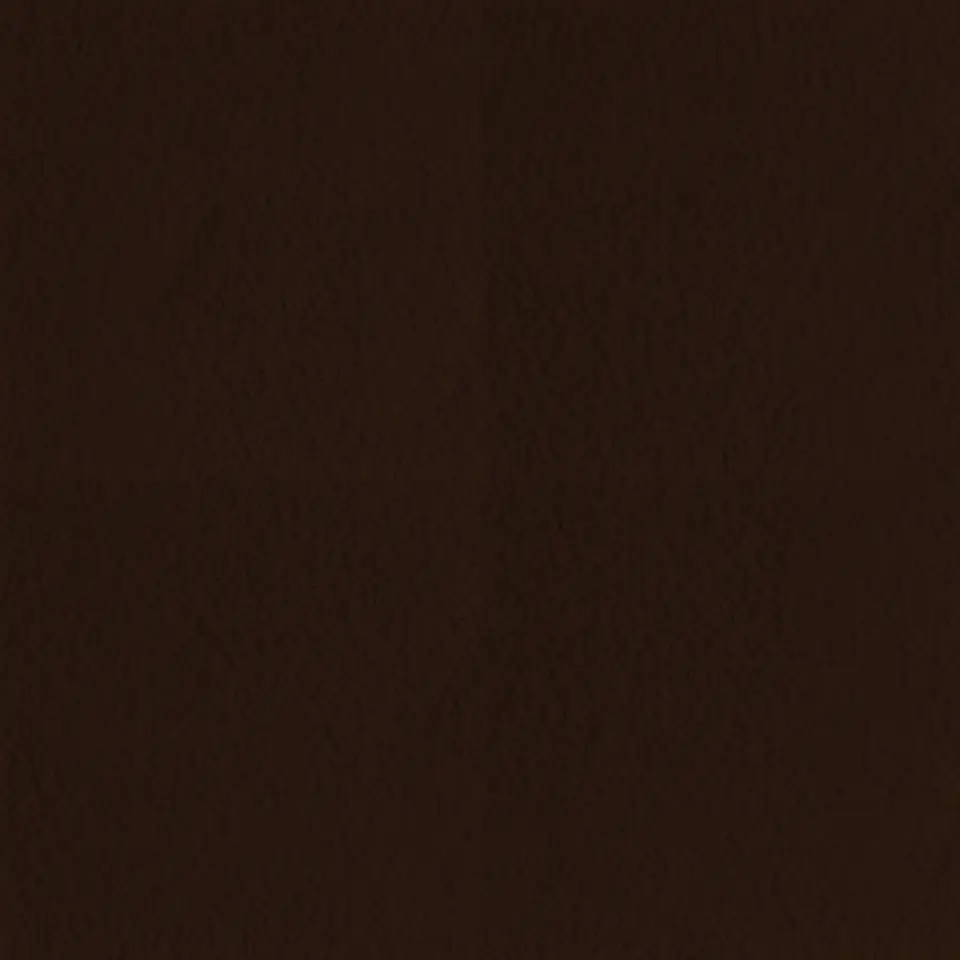
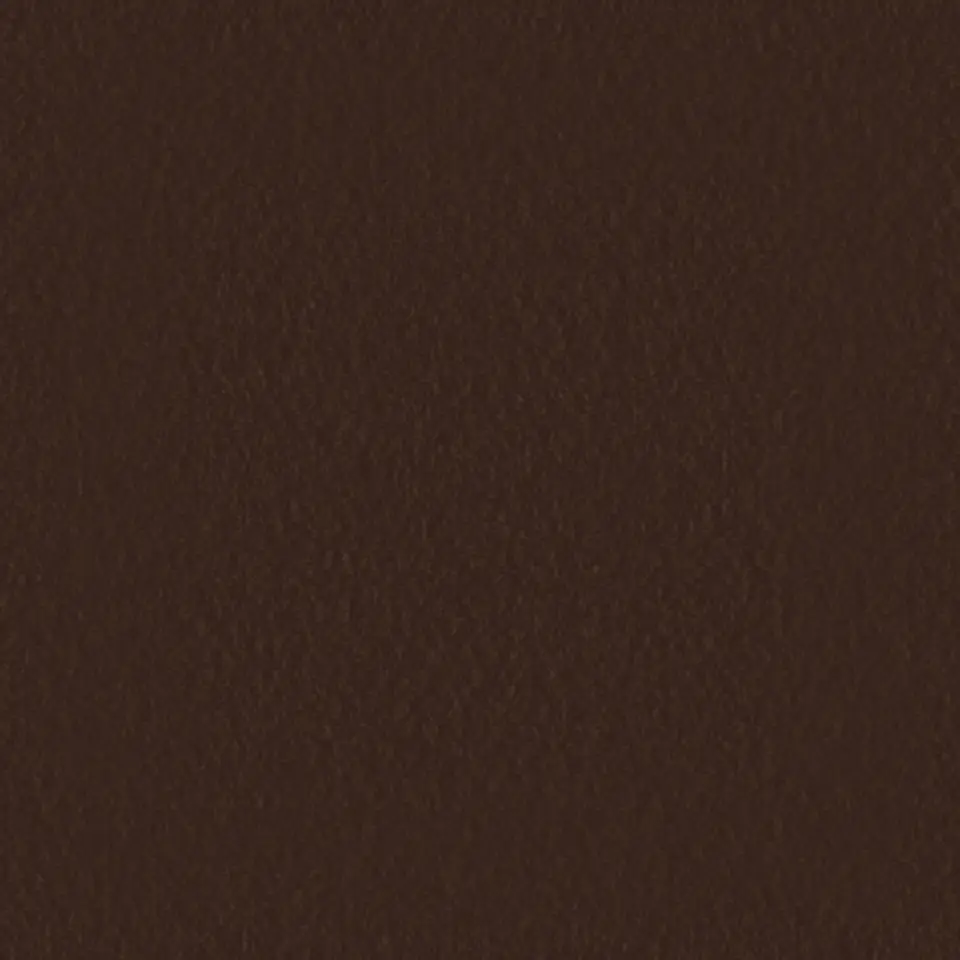
fix: cleaner paper, fine grain and fibre only (no stain-like wrinkles or fold streaks), cream matched

diff --git a/src/lib/paper.ts b/src/lib/paper.ts
@@ -10,18 +10,19 @@ export type PaperParams = {
 export type PaperColours = { colorPaper: string; colorBack: string; colorShadow: string }
 export type PaperTone = "light" | "lantern" | "bright"
 
-/** The lab's "Paper" style (lab/frame.tsx) as the start, folds down to 0.1 and no crumples (the diagonal creases),
- *  so nothing strong crosses behind the names (18f) */
+/** The paper (18f, second pass): fine grain and fibre only. The wrinkles and folds of the first pass read as stains
+ *  and streaks once tiled across a card, so they're gone; nothing big repeats, so the tile never shows. */
 export const CHOSEN: PaperParams = {
-  roughness: 0.35, roughnessSize: 0.5, fiber: 0.35, fiberSize: 0.5, folds: 0.1, foldSizeX: 1, foldSizeY: 1,
-  wrinkles: 0.35, wrinkleSize: 0.65, crumples: 0, drops: 0.1, distortion: 0.3, blending: 1, angle: 300, seed: 4, scale: 0.9,
+  roughness: 0.4, roughnessSize: 0.5, fiber: 0.45, fiberSize: 0.5, folds: 0, foldSizeX: 1, foldSizeY: 1,
+  wrinkles: 0, wrinkleSize: 0.65, crumples: 0, drops: 0.05, distortion: 0.3, blending: 1, angle: 300, seed: 4, scale: 0.9,
 }
 
-/** The paper colours: cream, a cream a step darker and a warm beige by day; walnut, a step darker and a deep brown
- *  in Lantern; the fortune slip's bright paper in both. */
+/** The paper colours: by day a cream a touch lighter than the letter's (the grain darkens it back to the cream),
+ *  a step darker and a soft beige; in Lantern a warm walnut, a step darker, and a lighter brown for the grain, so it
+ *  shows as texture on dark paper instead of disappearing or reading as scratches; the slip's bright paper in both. */
 export const COLOURS: Record<PaperTone, PaperColours> = {
-  light: { colorPaper: "#f3e7d3", colorBack: "#eadcc3", colorShadow: "#c4ab85" },
-  lantern: { colorPaper: "#2e1b12", colorBack: "#24150d", colorShadow: "#120905" },
+  light: { colorPaper: "#f7eddc", colorBack: "#f1e5cf", colorShadow: "#d2bd9b" },
+  lantern: { colorPaper: "#32201a", colorBack: "#2a1a12", colorShadow: "#5a4232" },
   bright: { colorPaper: "#fffdf8", colorBack: "#f6efe2", colorShadow: "#cdbb9b" },
 }
 
@@ -31,10 +32,10 @@ export const forTone = (p: PaperParams, tone: PaperTone): PaperParams =>
 
 /** The four for the lab, side by side */
 export const PRESETS: { id: string; label: string; params: PaperParams }[] = [
-  { id: "subtle", label: "Very subtle", params: { ...CHOSEN, roughness: 0.22, fiber: 0.25, folds: 0.03, wrinkles: 0.18, drops: 0.05 } },
+  { id: "subtle", label: "Very subtle", params: { ...CHOSEN, roughness: 0.25, fiber: 0.28, drops: 0 } },
   { id: "chosen", label: "Chosen", params: CHOSEN },
-  { id: "fibre", label: "More fibre", params: { ...CHOSEN, fiber: 0.7, fiberSize: 0.6 } },
-  { id: "nofolds", label: "No folds at all", params: { ...CHOSEN, folds: 0 } },
+  { id: "fibre", label: "More fibre", params: { ...CHOSEN, roughness: 0.3, roughnessSize: 0.35, fiber: 0.6, fiberSize: 0.4, drops: 0 } },
+  { id: "folds", label: "A few soft folds", params: { ...CHOSEN, folds: 0.08, wrinkles: 0.12, wrinkleSize: 0.3 } },
 ]
 
 /** The one the site uses */

diff --git a/e2e/lab-paper.spec.ts b/e2e/lab-paper.spec.ts
@@ -10,9 +10,9 @@ test("lab paper: four presets in both themes, sliders move the picked one", asyn
   await expect(group.getByRole("radio")).toHaveCount(4, { timeout: 30_000 })
   await expect(group.getByRole("radio", { name: /Chosen/ })).toHaveAttribute("aria-checked", "true")
   await expect(page.locator(".x-pp-swatch")).toHaveCount(10) // 4 presets and the crosshatch, each light and dark
-  await group.getByRole("radio", { name: /No folds at all/ }).click()
+  await group.getByRole("radio", { name: /A few soft folds/ }).click()
   const folds = page.getByRole("slider", { name: "Folds" })
-  await expect(folds).toHaveValue("0")
+  await expect(folds).toHaveValue("0.08")
   await folds.fill("0.2")
   await expect(page.locator(".x-pp-tools output").first()).toHaveText("0.20")
   await page.getByRole("button", { name: "Copy settings" }).click()

diff --git a/scripts/paper-bake/bake.tsx b/scripts/paper-bake/bake.tsx
@@ -6,5 +6,5 @@ import { COLOURS, PAPER, TILE, forTone, type PaperTone } from "../../src/lib/pap
 const extra = JSON.parse(new URLSearchParams(location.search).get("p") ?? "{}")
 const tone = (new URLSearchParams(location.search).get("tone") ?? "light") as PaperTone
 createRoot(document.getElementById("root")!).render(
-  <PaperTexture id="t" className="t" speed={0} fit="cover" {...forTone({ ...PAPER, ...extra }, tone)} {...COLOURS[tone]} style={{ width: TILE, height: TILE }} />,
+  <PaperTexture id="t" className="t" speed={0} fit="cover" {...forTone({ ...PAPER, ...extra, colours: undefined }, tone)} {...COLOURS[tone]} {...extra.colours?.[tone]} style={{ width: TILE, height: TILE }} />,
 )
